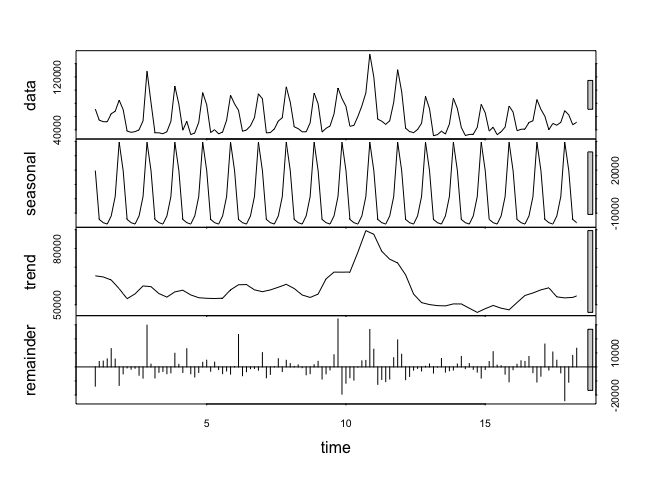
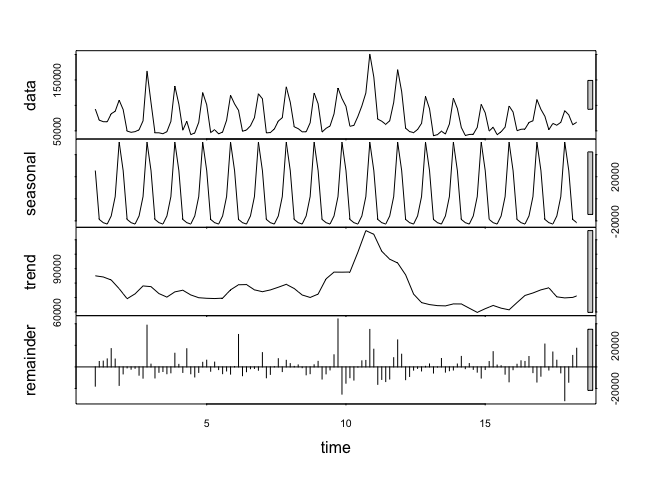
1

diff --git a/11.Time Series Analysis/timeSeriseAll.md b/11.Time Series Analysis/timeSeriseAll.md
@@ -19,13 +19,13 @@ data[,1] = as.Date( data[,1])
 head(data)
 ```
 
-    ##         date   new     log income
-    ## 1 2015-03-01 71383 2666169  745.0
-    ## 2 2015-03-02 54572 2192393  580.3
-    ## 3 2015-03-03 52306 2147821  539.1
-    ## 4 2015-03-04 52093 2162540  552.1
-    ## 5 2015-03-05 64262 2392343  624.5
-    ## 6 2015-03-06 68040 2522522  742.6
+    ##         date     new      log income
+    ## 1 2015-03-01 92797.9 380878.3  767.9
+    ## 2 2015-03-02 70943.6 313196.0  603.2
+    ## 3 2015-03-03 67997.8 306828.6  562.0
+    ## 4 2015-03-04 67720.9 308931.3  575.0
+    ## 5 2015-03-05 83540.6 341760.3  647.4
+    ## 6 2015-03-06 88452.0 360357.3  765.5
 
 data fromation
 ==============
@@ -128,8 +128,8 @@ summary( aov( data$new ~ weekdays(data$date) ))
 ```
 
     ##                      Df    Sum Sq   Mean Sq F value Pr(>F)    
-    ## weekdays(data$date)   6 5.019e+10 8.365e+09   44.48 <2e-16 ***
-    ## Residuals           115 2.163e+10 1.881e+08                   
+    ## weekdays(data$date)   6 8.482e+10 1.414e+10   44.48 <2e-16 ***
+    ## Residuals           115 3.655e+10 3.178e+08                   
     ## ---
     ## Signif. codes:  0 '***' 0.001 '**' 0.01 '*' 0.05 '.' 0.1 ' ' 1
 
@@ -288,16 +288,16 @@ accuracy( f.meanf, data.ts[101:107] )
 ```
 
     ##                         ME     RMSE      MAE       MPE     MAPE      MASE
-    ## Training set  2.400515e-12 25865.25 21248.69 -16.89007 38.84926 1.0000000
-    ## Test set     -1.108024e+04 18824.13 17908.02 -33.64294 42.99911 0.8427823
+    ## Training set  5.530936e-12 33624.82 27623.30 -16.89007 38.84926 1.0000000
+    ## Test set     -1.440431e+04 24471.37 23280.43 -33.64294 42.99911 0.8427823
 
 ``` r
 accuracy( f.rwf, data.ts[101:107] )
 ```
 
-    ##                         ME     RMSE      MAE       MPE     MAPE      MASE
-    ## Training set -2.574461e-13 26154.62 19409.61 -8.132422 32.80620 1.0015368
-    ## Test set      1.161644e+04 19385.20 13064.55 17.127669 21.55556 0.6741311
+    ##                        ME     RMSE      MAE       MPE     MAPE      MASE
+    ## Training set 1.102597e-12 34001.01 25232.50 -8.132422 32.80620 1.0015368
+    ## Test set     1.510137e+04 25200.76 16983.91 17.127669 21.55556 0.6741311
     ##                   ACF1
     ## Training set 0.1198494
     ## Test set            NA
@@ -344,9 +344,9 @@ plot( f.stl, ylab="New orders index",
 accuracy( f.stl, data.ts[101:107] )
 ```
 
-    ##                       ME     RMSE      MAE        MPE     MAPE      MASE
-    ## Training set    90.93827 12104.13 7755.973  -0.848014 13.17728 0.4002085
-    ## Test set     -7058.15122 10970.20 9004.014 -12.569888 17.04674 0.4646075
+    ##                      ME     RMSE      MAE        MPE     MAPE      MASE
+    ## Training set   118.2198 15735.37 10082.76  -0.848014 13.17728 0.4002085
+    ## Test set     -9175.5966 14261.26 11705.22 -12.569888 17.04674 0.4646075
     ##                    ACF1
     ## Training set -0.2121731
     ## Test set             NA
@@ -629,7 +629,7 @@ fit
     ## 
     ## Coefficients:
     ##          ar1    sar1    sar2  intercept
-    ##       0.5599  0.5221  0.3247    10.8787
+    ##       0.5599  0.5221  0.3247    11.1411
     ## s.e.  0.0843  0.0975  0.1031     0.1971
     ## 
     ## sigma^2 estimated as 0.03852:  log likelihood=18.82
@@ -651,11 +651,11 @@ accuracy( data.forecast, data$new[101:120] )
 ```
 
     ##                         ME         RMSE          MAE        MPE      MAPE
-    ## Training set -8.053632e-03 1.922932e-01 1.404425e-01 -0.1085542  1.289064
-    ## Test set      5.311885e+04 5.499932e+04 5.311885e+04 99.9784776 99.978478
+    ## Training set -8.053632e-03 1.922932e-01 1.404425e-01 -0.1052153  1.258702
+    ## Test set      6.905747e+04 7.150199e+04 6.905747e+04 99.9830379 99.983038
     ##                      MASE        ACF1
     ## Training set 4.665348e-01 0.004771361
-    ## Test set     1.764551e+05          NA
+    ## Test set     2.294015e+05          NA
 
 不知道有什么卵用，暂时堆在这里
 ==============================
